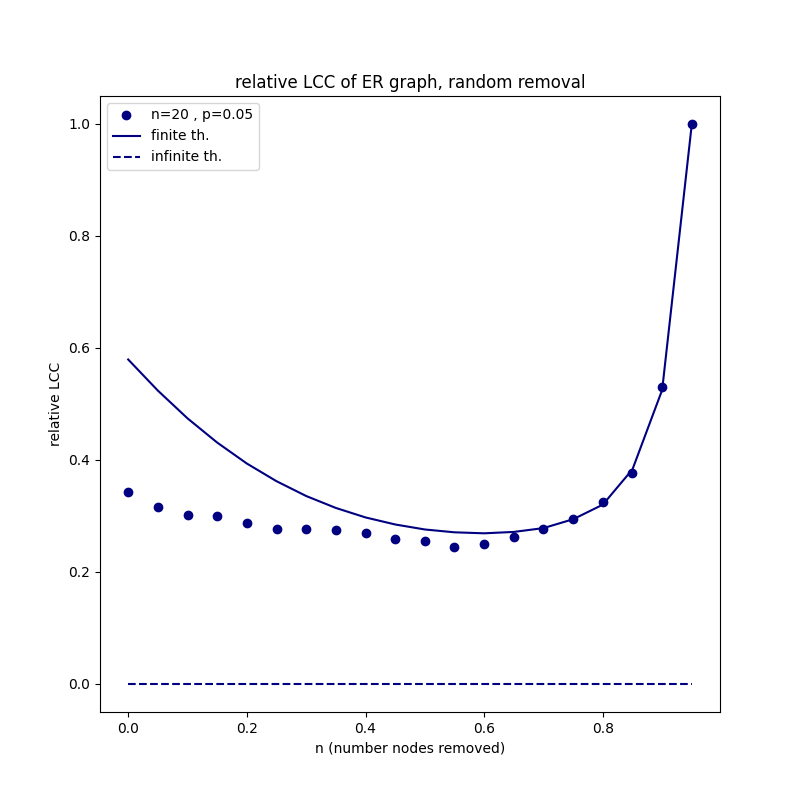
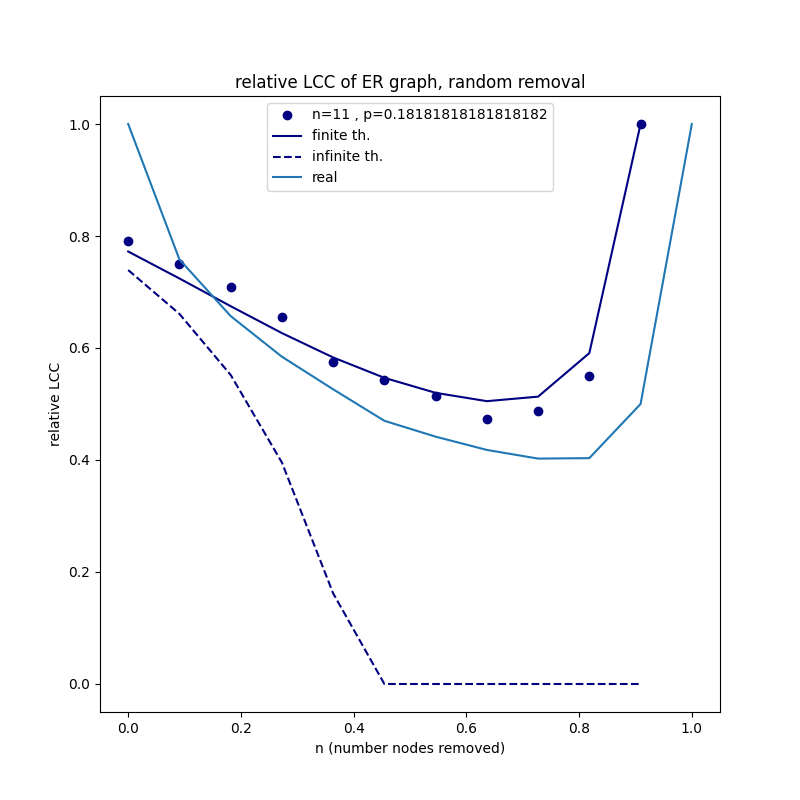
Updated Code

diff --git a/libs/finiteTheory.py b/libs/finiteTheory.py
@@ -32,6 +32,7 @@ import scipy.special
 from scipy.special import comb, factorial
 from libs.utils import *
 import matplotlib.pyplot as plt
+import math
 
 def raw_f(p, i, n):
     '''Compute f (i.e., the probability that a subgraph with `i` nodes of an 
@@ -55,12 +56,12 @@ def raw_f(p, i, n):
        The probability that a subgraph with `i` nodes of an Erdos--Renyi
        random graph with `n` nodes and edge probability `p` is connected.
     '''
-    if i == 0:
-        p_connect = 0
-    elif i == 1:
+    # if i == 0:
+    #     p_connect = 0
+    if i == 1:
         p_connect = 1
-    elif i > n:
-        p_connect = 0
+    # elif i > n:
+    #     p_connect = 0
     else:
         sum_f = 0
         for i_n in range(1, i, 1):
@@ -103,18 +104,18 @@ def calculate_f(p, i, n, fdict={}): # using dictionary to calculate f values
                 return fdict[p][n][i]
 
     # if none is found start computation
-    if i == 0:
-        f = 0
-    elif i == 1:
-        f = 1
-    elif i>n:
-        f = 0
-    else:
-        sum_f = 0
-        for i_n in range(1, i, 1):
-            sum_f += (calculate_f(p, i_n, n, fdict=fdict) 
-                * comb(i - 1, i_n - 1) * (1 - p) ** ((i_n) * (i - i_n)))
-        f = 1 - sum_f
+    # if i == 0:
+    #     f = 0
+    # if i == 1:
+    #     f = 1
+    # # elif i>n:
+    # #     f = 0
+    # else:
+    sum_f = 0
+    for i_n in range(1, i, 1):
+        sum_f += (calculate_f(p, i_n, n, fdict=fdict)
+            * comb(i - 1, i_n - 1) * (1 - p) ** ((i_n) * (i - i_n)))
+    f = 1 - sum_f
 
     return f
 
@@ -171,18 +172,18 @@ def raw_P(p, i, n):
        The probability that an Erdos--Renyi random graph with `n` nodes and 
        edge probability `p` has a largest connected component of size `i`.
     '''
-    if i == 0 and n == 0:
-        P_tot = 1
-    elif i > 0 and n == 0:
-        P_tot = 0
-    elif i > n or n < 0 or i <= 0:
-        P_tot = 0
-    elif i == 1 and n == 1:
+    # if i == 0 and n == 0:
+    #     P_tot = 1
+    # if i > 0 and n == 0:
+    #     P_tot = 0
+    # if i > n or n < 0 or i <= 0:
+    #     P_tot = 0
+    if i == 1 and n == 1:
         P_tot = 1
     elif i == 1 and n != 1:
         P_tot = (1 - p) ** comb(n, 2)
-    elif i == n:
-        P_tot = raw_f(p,n,n)
+    # elif i == n:
+    #     P_tot = raw_f(p,n,n)
     else:
         sum_P = 0
         for j in range(0, i + 1, 1):
@@ -228,18 +229,18 @@ def calculate_P(p, i, n, fdict={}, pdict={}): # find P with dictionary
             if i in pdict[p][n]:
                 return pdict[p][n][i]
 
-    if i == 0 and n == 0:
-        P_tot = 1
-    elif i > 0 and n == 0:
-        P_tot = 0
-    elif i > n or n < 0 or i <= 0:
-        P_tot = 0
-    elif i == 1 and n == 1:
+    # if i == 0 and n == 0:
+    #     P_tot = 1
+    # if i > 0 and n == 0:
+    #     P_tot = 0
+    # if i > n or n < 0 or i <= 0:
+    #     P_tot = 0
+    if i == 1 and n == 1:
         P_tot = 1
     elif i == 1 and n != 1:
         P_tot = (1 - p) ** comb(n, 2)
-    elif i == n:
-        P_tot = calculate_f(p,n,n)
+    # elif i == n:
+    #     P_tot = calculate_f(p,n,n)
     else:
         sum_P = 0
 
@@ -348,16 +349,16 @@ def normalized(p,i,n):
   p_vals = np.zeros(n+1)
   for i_i in range(n+1):
     print(i_i)
-    if i_i == 0 and n == 0:
-      P_tot = 1
-    elif i_i > 0 and n == 0:
-          P_tot = 0
-    elif i_i > n or n < 0 or i_i <= 0:
-          P_tot = 0
-    elif i_i == 1 and n != 1:
+    # if i_i == 0 and n == 0:
+    #   P_tot = 1
+    # if i_i > 0 and n == 0:
+    #       P_tot = 0
+    # if i_i > n or n < 0 or i_i <= 0:
+    #       P_tot = 0
+    if i_i == 1 and n != 1:
           P_tot = (1 - p) ** comb(n, 2)
-    elif i_i == n:
-      P_tot = calculate_f(p,i_i,n)
+    # elif i_i == n:
+    #   P_tot = calculate_f(p,i_i,n)
     else:
       P_tot = 0
       for j in range(1,i_i+1):
@@ -388,18 +389,18 @@ def alice_helper(p,i,n,k,fdict={},pdict={}):
     return scipy.special.comb((n-(k-1)*i),i)*calculate_f(p, i, n, fdict=fdict)* calculate_g(p, i, (n-(k-1)*i))
 
 def alice(p,i,n,fdict={},pdict={}):
-    if i == 0 and n == 0:
-        P_tot = 1
-    elif i > 0 and n == 0:
-        P_tot = 0
-    elif i > n or n < 0 or i <= 0:
-        P_tot = 0
-    elif i == 1 and n == 1:
+    # if i == 0 and n == 0:
+    #     P_tot = 1
+    # if i > 0 and n == 0:
+    #     P_tot = 0
+    # if i > n or n < 0 or i <= 0:
+    #     P_tot = 0
+    if i == 1 and n == 1:
         P_tot = 1
     elif i == 1 and n != 1:
         P_tot = (1 - p) ** comb(n, 2)
-    elif i == n:
-        P_tot = calculate_f(p,n,n)
+    # elif i == n:
+    #     P_tot = calculate_f(p,n,n)
     else:
         P_tot = 0
         for k in range(1,n//i + 1): # each exact number of lcc's to calculate P for
@@ -414,7 +415,8 @@ def alice(p,i,n,fdict={},pdict={}):
             for j in range(1, i, 1):
                 sum_less += alice(p, j, n-k*i, fdict=fdict, pdict=pdict)
 
-            P_tot += 1/k * product * sum_less
+            P_tot += 1/math.factorial(k) * product * sum_less
+            #scipy.special.comb(scipy.special.comb(n, i), k)
     return P_tot
 
 
